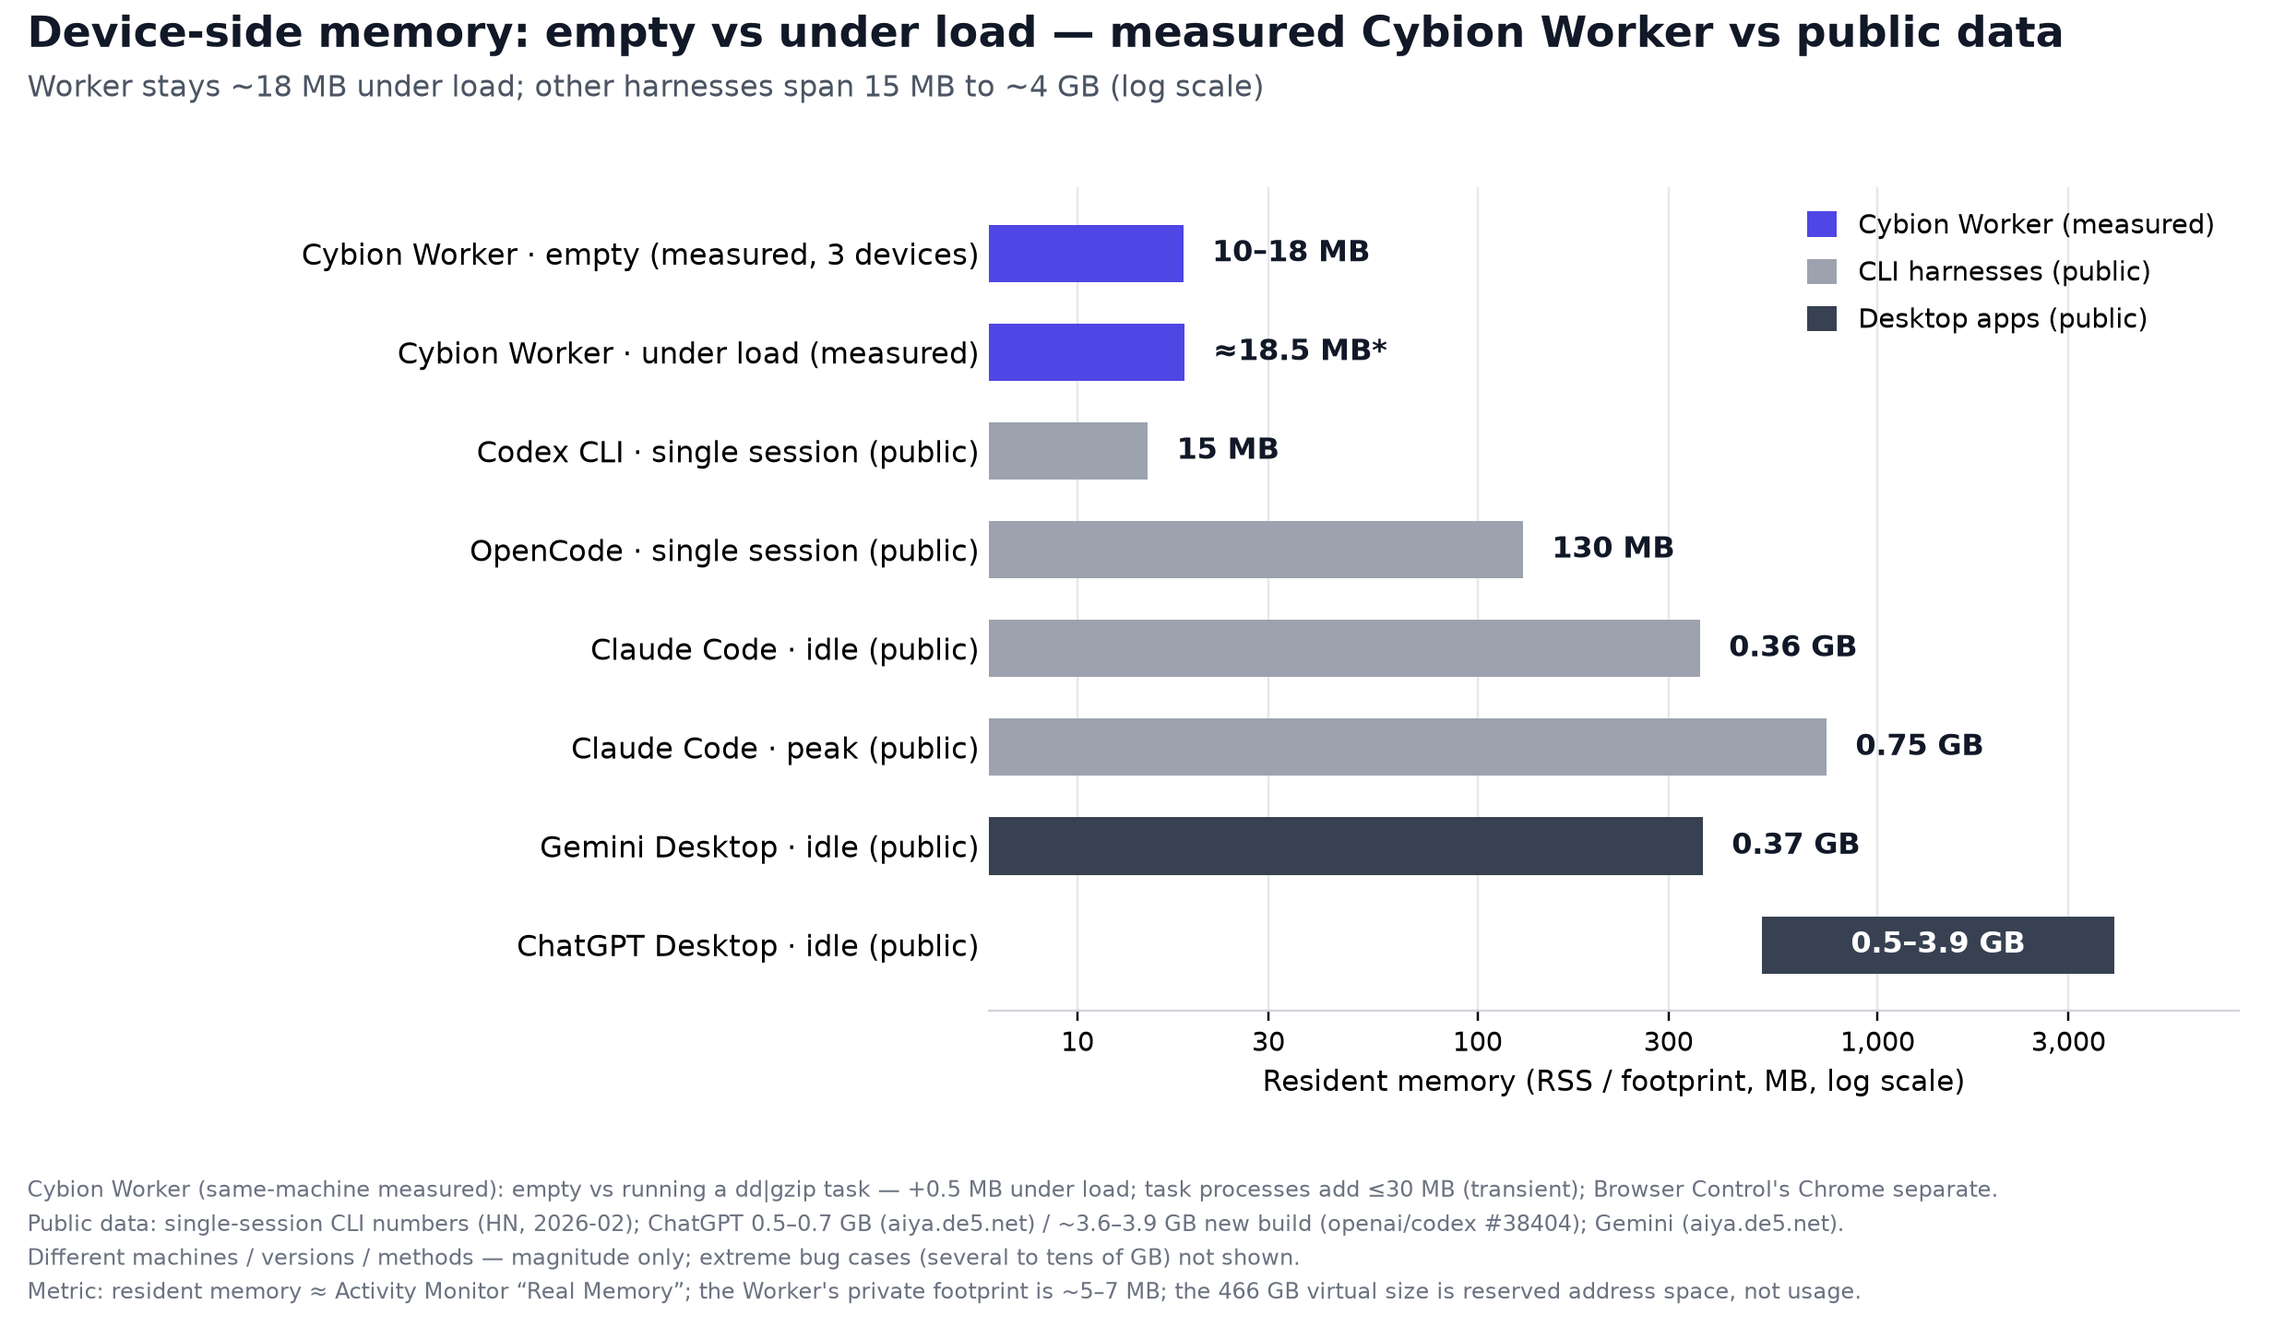
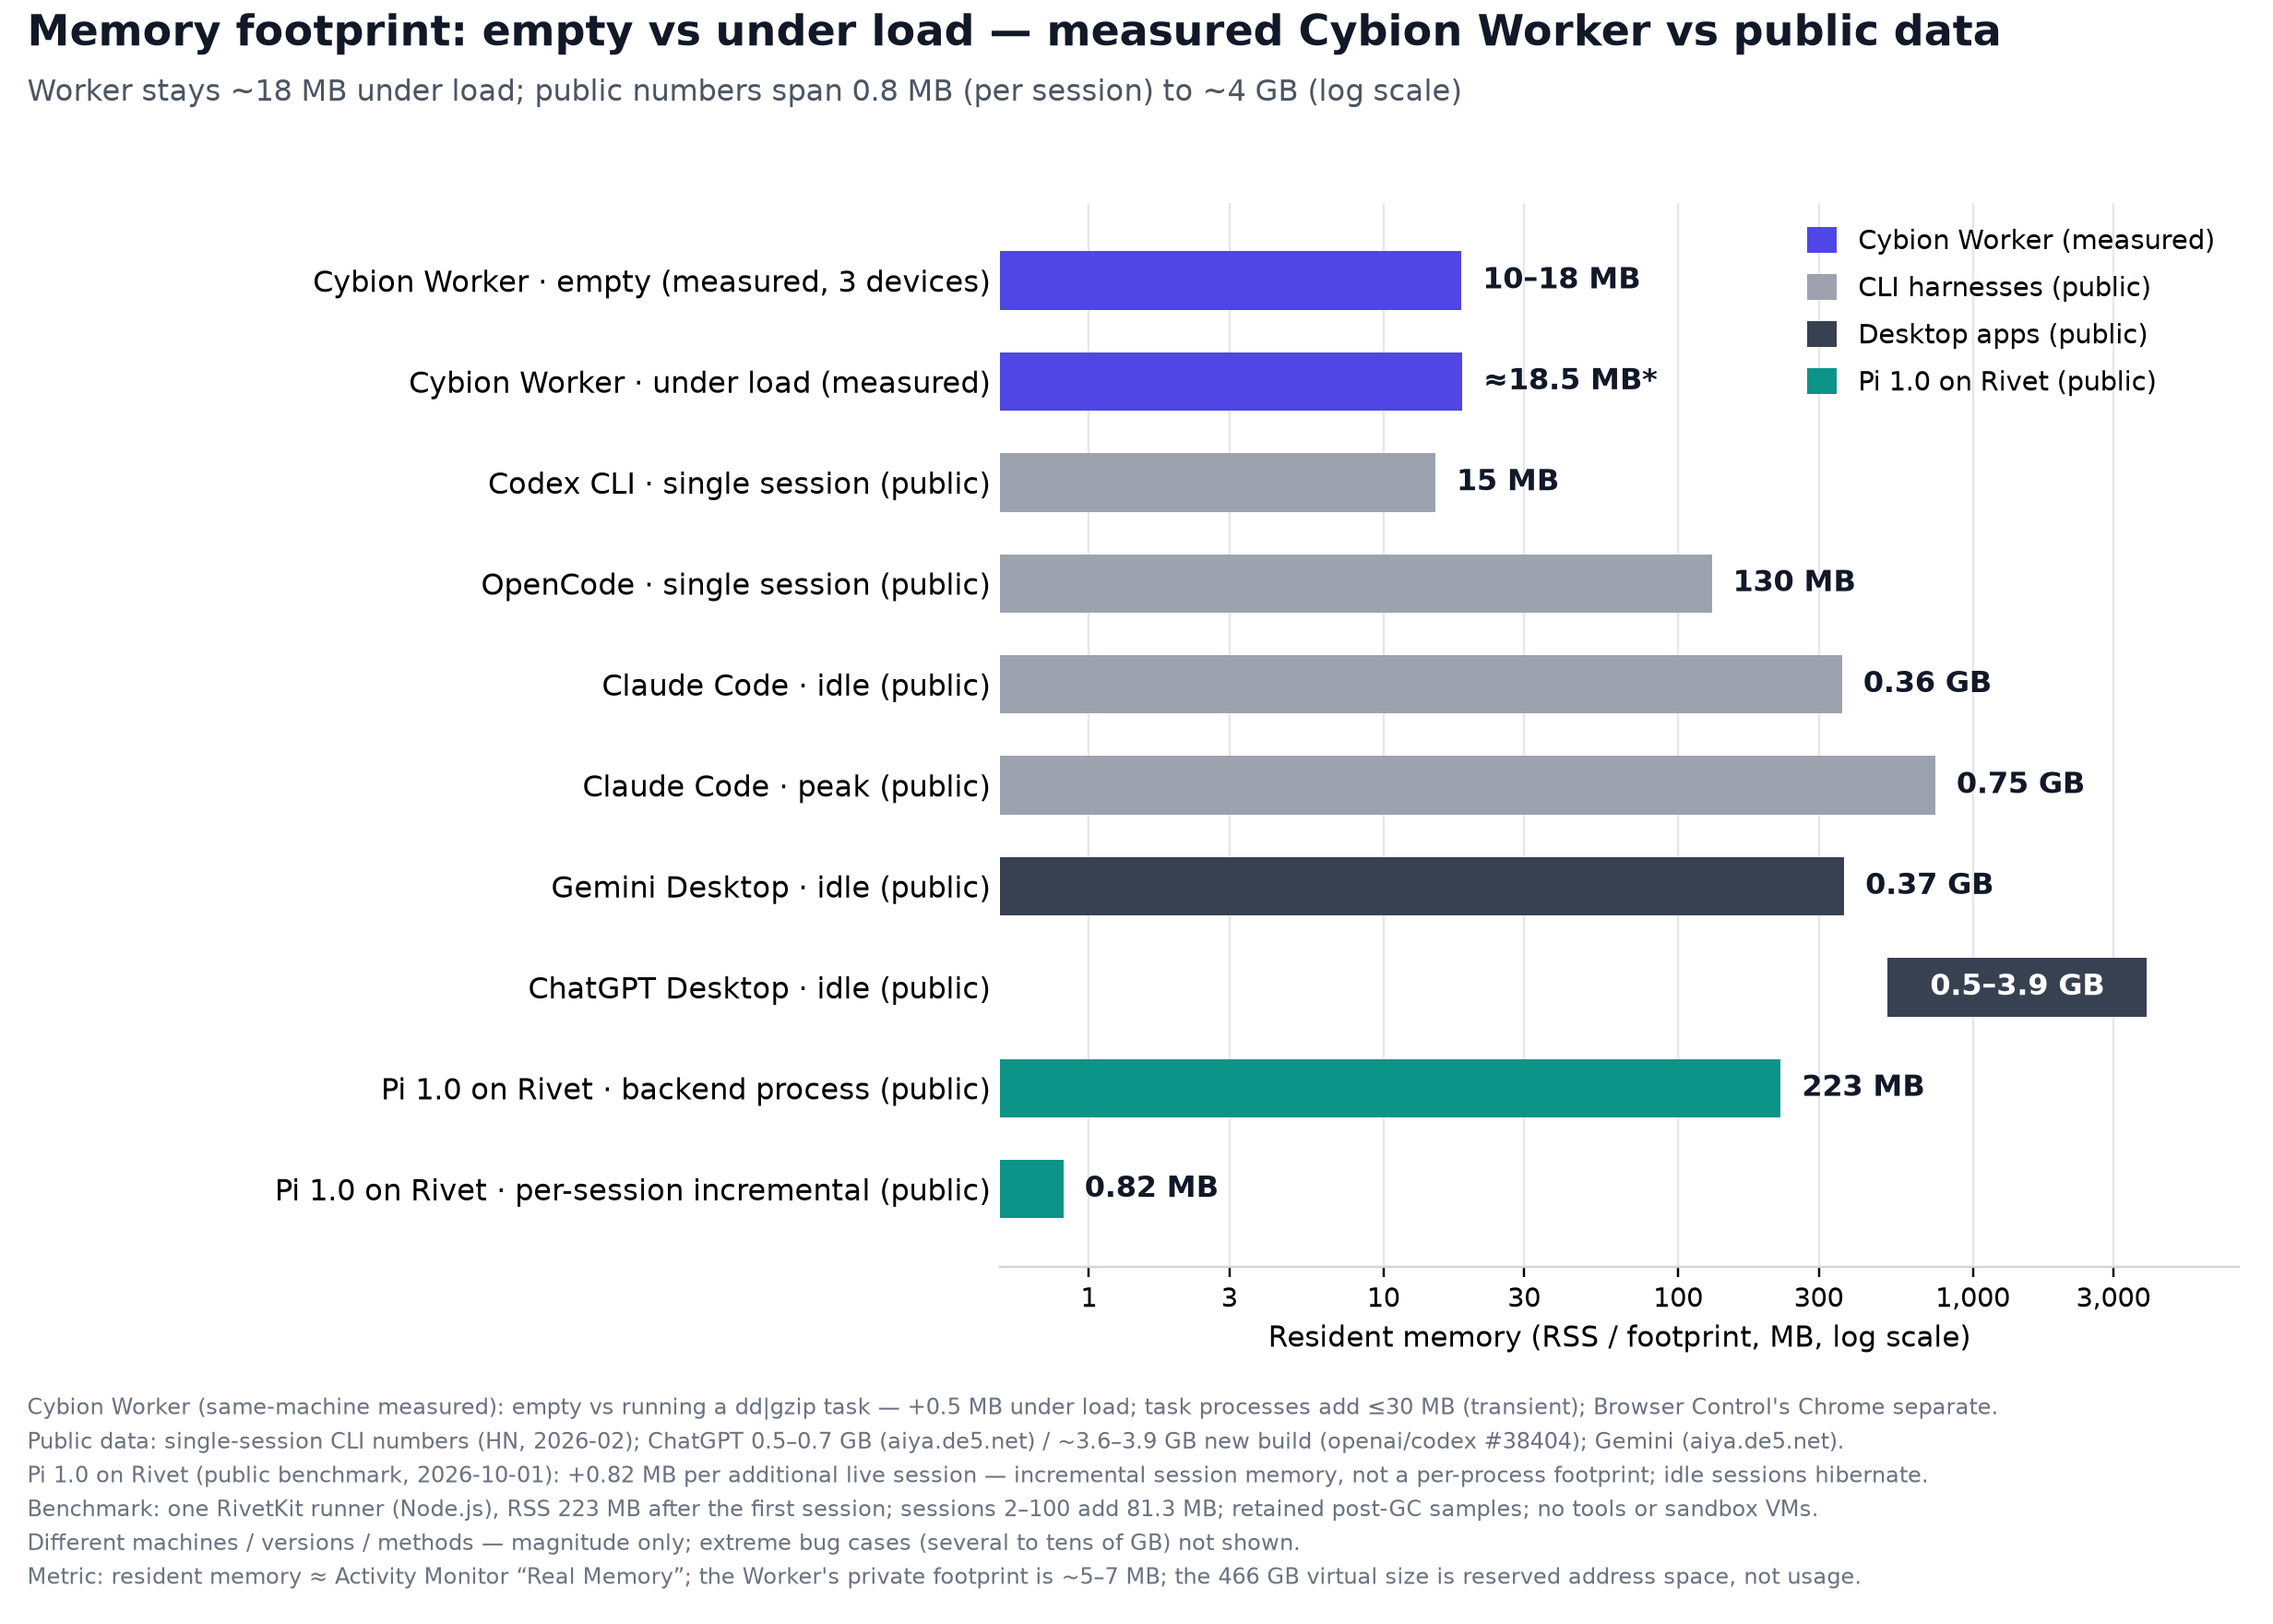
📝 README：内存足迹对比图加入 Pi 1.0 on Rivet（0.82 MB/会话增量） (#513)

diff --git a/README.md b/README.md
@@ -84,14 +84,18 @@ The Worker is small, and stays small under load. Measured on three machines
 **≈10–19 MB resident** — private footprint ~5–7 MB — from a single
 process that holds no local database and no model credentials.
 
-![Device-side memory: empty vs under load — Cybion Worker vs public data](docs/images/worker-footprint.png)
+![Memory footprint: empty vs under load — measured Cybion Worker vs public data](docs/images/worker-footprint.png)
 
-For scale, public single-session numbers for other harnesses: Codex CLI ~15 MB,
-OpenCode ~130 MB, Claude Code ~360–750 MB, ChatGPT Desktop 0.5–3.9 GB —
-different machines, versions and methods, so treat it as a magnitude
-comparison only. Sources: [HN](https://news.ycombinator.com/item?id=46904791),
+For scale, public numbers from other projects: Codex CLI ~15 MB, OpenCode
+~130 MB, Claude Code ~360–750 MB, ChatGPT Desktop 0.5–3.9 GB. Pi 1.0 on
+Rivet reports 0.82 MB per live session — incremental session memory inside
+one backend process (RSS baseline 223 MB), not a per-process footprint;
+idle sessions hibernate. Machines, versions and methods differ, so treat
+these as magnitude comparisons only. Sources:
+[HN](https://news.ycombinator.com/item?id=46904791),
 [aiya.de5.net](https://aiya.de5.net/t/topic/197),
-[openai/codex#38404](https://github.com/openai/codex/issues/38404).
+[openai/codex#38404](https://github.com/openai/codex/issues/38404),
+[Rivet](https://rivet.dev/changelog/2026-10-01-introducing-pi-1-0-for-rivet/).
 
 "Resident" here is RSS ≈ Activity Monitor's "Real Memory". The virtual
 address space macOS reports for the Worker (466 GB) is reserved address space,
